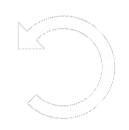
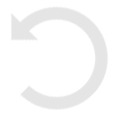
DRAW - styling in progress.

diff --git a/KidGameColoringBook/web/ios/index.html b/KidGameColoringBook/web/ios/index.html
@@ -124,8 +124,8 @@
 		<div class="controls-buttons-wrapper">
 			<div class="controls-button draw-page-back js-draw-page-back" title="back to images"><span></span></div>
 			<div class="controls-button color-history-save js-color-history-save" title="save progress, save"><div class="inner-border"><img src="img/i/tool-save.png" alt=""/></div></div>
-			<div class="controls-button color-selector-button js-color-selector-button" title="color selector"><div class="inner-border"><img src="img/i/tool-color-picker-from-all-selected-colors.svg" alt=""/></div></div>
-			<div class="controls-button show-color-picker-button js-show-color-picker-button" title="show all colors"><div class="inner-border"><img src="img/i/tool-color-picker-from-all-colors.svg" alt=""/></div></div>
+			<div class="controls-button color-selector-button js-color-selector-button" title="color selector"><div class="inner-border"><img class="add-border-radius" src="img/i/tool-color-picker-from-all-selected-colors.svg" alt=""/></div></div>
+			<div class="controls-button show-color-picker-button js-show-color-picker-button" title="show all colors"><div class="inner-border"><img class="add-border-radius" src="img/i/tool-color-picker-from-all-colors.svg" alt=""/></div></div>
 			<div class="controls-button simple-color-picker js-simple-color-picker" title="color picker, pipetka"><div class="inner-border"><img src="img/i/tool-color-picker.png" alt=""/></div></div>
 			<div class="controls-button color-history-back js-color-history-back" title="crtl+z"><div class="inner-border"><img src="img/i/tool-ctrl-z.png" alt=""/></div></div>
 		</div>

diff --git a/KidGameColoringBook/web/ios/css/style.css b/KidGameColoringBook/web/ios/css/style.css
@@ -3,19 +3,8 @@
 	position: relative;
 	z-index: 0;
 	background-color: #fff;
-	/*box-shadow: 5px 5px 10px rgba(0, 0, 0, 0.5);*/
-	border: 1px solid rgba(0, 0, 0, 0.5);
+	border: 1px solid #ccc;
 }
-
-/*
-.main-svg {
-	background-repeat: no-repeat;
-	-webkit-background-size: 100% 100%;
-	background-size: 100% 100%;
-	background-image: url('../img/i/frame-bg.png');
-	padding: 6%;
-}
-*/
 
 .scale-button {
 	position: fixed;
@@ -223,8 +212,9 @@
 	display: none;
 }
 
-.simple-color-picker.active img {
+.simple-color-picker.active .inner-border {
 	background-color: #fff;
+	background-image: -webkit-radial-gradient(#55ddff, #0081b5);
 }
 
 .color-selector-fade {
@@ -306,6 +296,7 @@ body {
 	max-width: 100%;
 	clear: both;
 	opacity: 0;
+	padding-top: 5%;
 }
 
 .end-of-list-padding.visible {
@@ -363,7 +354,14 @@ body {
 	width: 100%;
 	height: 100%;
 	box-sizing: border-box;
-	padding: 6px;
+}
+
+.controls-buttons-wrapper .inner-border img.add-border-radius {
+	border-radius: 6px;
+}
+
+.controls-buttons-wrapper .inner-border {
+	padding: 8px;
 }
 
 .controls-buttons-wrapper .draw-page-back {
@@ -435,6 +433,10 @@ body {
 
 	.controls-buttons-wrapper .draw-page-back {
 		border-width: 3px;
+	}
+
+	.controls-buttons-wrapper .inner-border {
+		padding: 5px;
 	}
 
 }

diff --git a/KidGameColoringBook/web/ios/js/controllers/draw.js b/KidGameColoringBook/web/ios/js/controllers/draw.js
@@ -209,9 +209,9 @@
 		},
 		setColorOfShowColorPicker: function (color) {
 			var img;
-			img = $('.js-show-color-picker-button img', main.wrapper);
+			img = $('.js-show-color-picker-button .inner-border', main.wrapper);
 			img.style.backgroundColor = utils.arrayToColor(color);
-			img = $('.js-color-selector-button img', main.wrapper);
+			img = $('.js-color-selector-button .inner-border', main.wrapper);
 			img.style.backgroundColor = utils.arrayToColor(color);
 		},
 		createColorMap: function () {
@@ -654,7 +654,7 @@
 					var color = this.getAttribute('fill').match(/\d+/gi) || [255, 255, 255];
 					colorPicker.setColorOfShowColorPicker(color);
 					that.activeColor = color;
-					that.activeTool = 'brush'
+					that.activeTool = 'brush';
 					$.removeClass(colorPicker.simplePickerButton, 'active');
 				}
 
